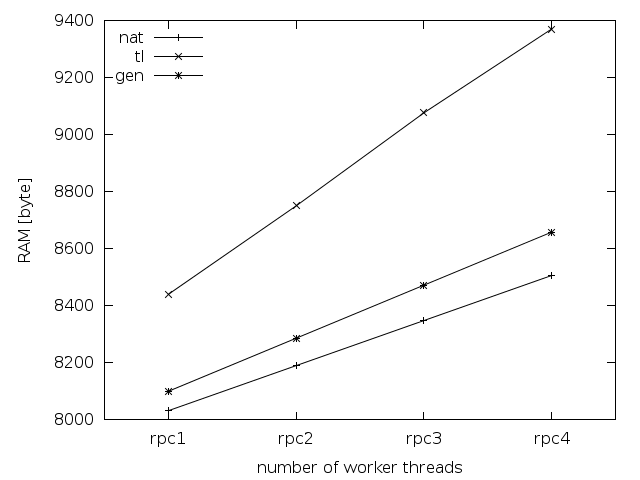
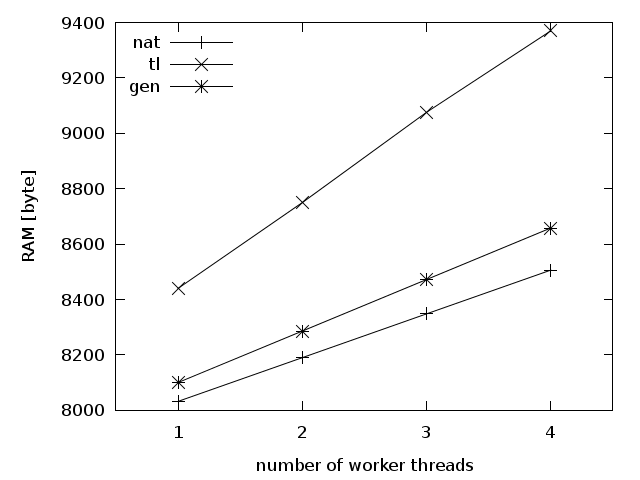
improved plots

diff --git a/applications/contiki/plots/pt_text.py b/applications/contiki/plots/pt_text.py
@@ -1,11 +1,10 @@
 import plotting
 import os
+from plots import script_prolog
 
-script = """
-set terminal pngcairo mono size 640, 480
-set output '%(outfile)s.png'
-
+script = script_prolog + """
 set style data linespoints
+set pointsize 2.0
 
 set key left
 set xrange [-0.5:3.5]
@@ -30,15 +29,16 @@ def plot(path, values_, (apps_, variants_, measurements_), numbers):
     values = {}
     for a in apps:
         for v in variants:
-            values[(a,v,"text")] = values_[(a,v,"text")]
-        values[(a,"gen_nopal", "text")] = values_[(a,"gen","text")] - values_[(a, "pal", "text")]
+            values[(a[3],v,"text")] = values_[(a,v,"text")]
+        values[(a[3],"gen_nopal", "text")] = values_[(a,"gen","text")] - values_[(a, "pal", "text")]
 
     variants.append("gen_nopal")
+    apps = ["1", "2", "3", "4"]
     plotdata = plotting.linespoints(values, apps, variants, measurements)
 
     config = {'outfile': os.path.join(path, "pt_text")}
     plotting.plot(script, config, plotdata)
 
     for v in variants:
-        slope = 1.0 * (values[("rpc4", v, "text")] - values[("rpc1", v, "text")]) / 3
+        slope = 1.0 * (values[("4", v, "text")] - values[("1", v, "text")]) / 3
         numbers.write("slope: %s: %.2f\n" % (v, slope))

diff --git a/applications/contiki/plots/pt_ram.py b/applications/contiki/plots/pt_ram.py
@@ -1,11 +1,10 @@
 import plotting
 import os
+from plots import script_prolog
 
-script = """
-set terminal pngcairo mono size 640, 480
-set output '%(outfile)s.png'
-
+script = script_prolog + """
 set style data linespoints
+set pointsize 2.0
 
 set key left
 set xrange [-0.5:3.5]
@@ -30,13 +29,14 @@ def plot(path, values_, (apps_, variants_, measurements_), numbers):
     values = {}
     for a in apps:
         for v in variants:
-            values[(a, v, "ram")] = sum([values_[(a, v, m)] for m in ["data", "bss", "stack"]])
+            values[(a[3], v, "ram")] = sum([values_[(a, v, m)] for m in ["data", "bss", "stack"]])
 
+    apps = ["1", "2", "3", "4"]
     plotdata = plotting.linespoints(values, apps, variants, ["ram"])
 
     config = {'outfile': os.path.join(path, "pt_ram")}
     plotting.plot(script, config, plotdata)
 
     for v in variants:
-        slope = 1.0 * (values[("rpc4", v, "ram")] - values[("rpc1", v, "ram")]) / 3
+        slope = 1.0 * (values[("4", v, "ram")] - values[("1", v, "ram")]) / 3
         numbers.write("slope: %s: %.2f\n" % (v, slope))

diff --git a/applications/contiki/plots/text.py b/applications/contiki/plots/text.py
@@ -1,22 +1,20 @@
 import plotting
 import StringIO
 import os
+from plots import script_prolog
 
-script = """
-set terminal pngcairo mono size 640, 480
-set style fill pattern 1 border
-set output '%(outfile)s.png'
-         
+script = script_prolog + """
 set style data histograms
 set style histogram columnstacked
-
+set style fill pattern
 
 set datafile missing '-'
 
-set key right 
+set key right
 set auto x
 set yrange [42000:47000]
-set ylabel "text [bytes]"
+
+set ylabel "text [byte]"
 set xlabel "dca                       coap                       rpc"
 
 set xtics ("" 0, \\

diff --git a/applications/contiki/plots/ram.py b/applications/contiki/plots/ram.py
@@ -1,18 +1,17 @@
 import plotting
 import StringIO
 import os
+from plots import script_prolog
 
-script = """
-set terminal pngcairo mono size 640, 480
-set style fill pattern 1 border
-set output '%(outfile)s.png'
-         
+script = script_prolog + """
 set style data histograms
 set style histogram columnstacked
+set style fill pattern
 
 set key right
 set auto x
 set yrange [7000:9500]
+
 set ylabel "RAM [byte]"
 set xlabel "dca                       coap                       rpc"
 

diff --git a/applications/contiki/plots/loc.py b/applications/contiki/plots/loc.py
@@ -1,17 +1,14 @@
 import plotting
 import StringIO
 import os
+from plots import script_prolog
 
-script = """
-set terminal pngcairo mono size 640, 480
-set output '%(outfile)s.png'
-
+script = script_prolog + """
 set style data histogram
 set style histogram cluster gap 1
+set style fill pattern
 
-set style fill pattern 1 border
-
-set key left
+set key right
 set auto x
 set yrange [50:*]
 

diff --git a/applications/contiki/plots/cpu.py b/applications/contiki/plots/cpu.py
@@ -1,16 +1,13 @@
 import plotting
 import os
+from plots import script_prolog
 
-script = """
-set terminal pngcairo mono size 640, 480
-set output '%(outfile)s.png'
-
+script = script_prolog + """
 set style data histogram
 set style histogram cluster gap 1
+set style fill pattern
 
-set style fill pattern 1 border
-
-set key left
+set key right
 set auto x
 set yrange [650000:820000]
 

diff --git a/applications/contiki/plots/__init__.py b/applications/contiki/plots/__init__.py
@@ -1,0 +1,4 @@
+script_prolog = """
+set terminal pngcairo mono size 640, 480 font "sans serif, 13"
+set output '%(outfile)s.png'
+"""
